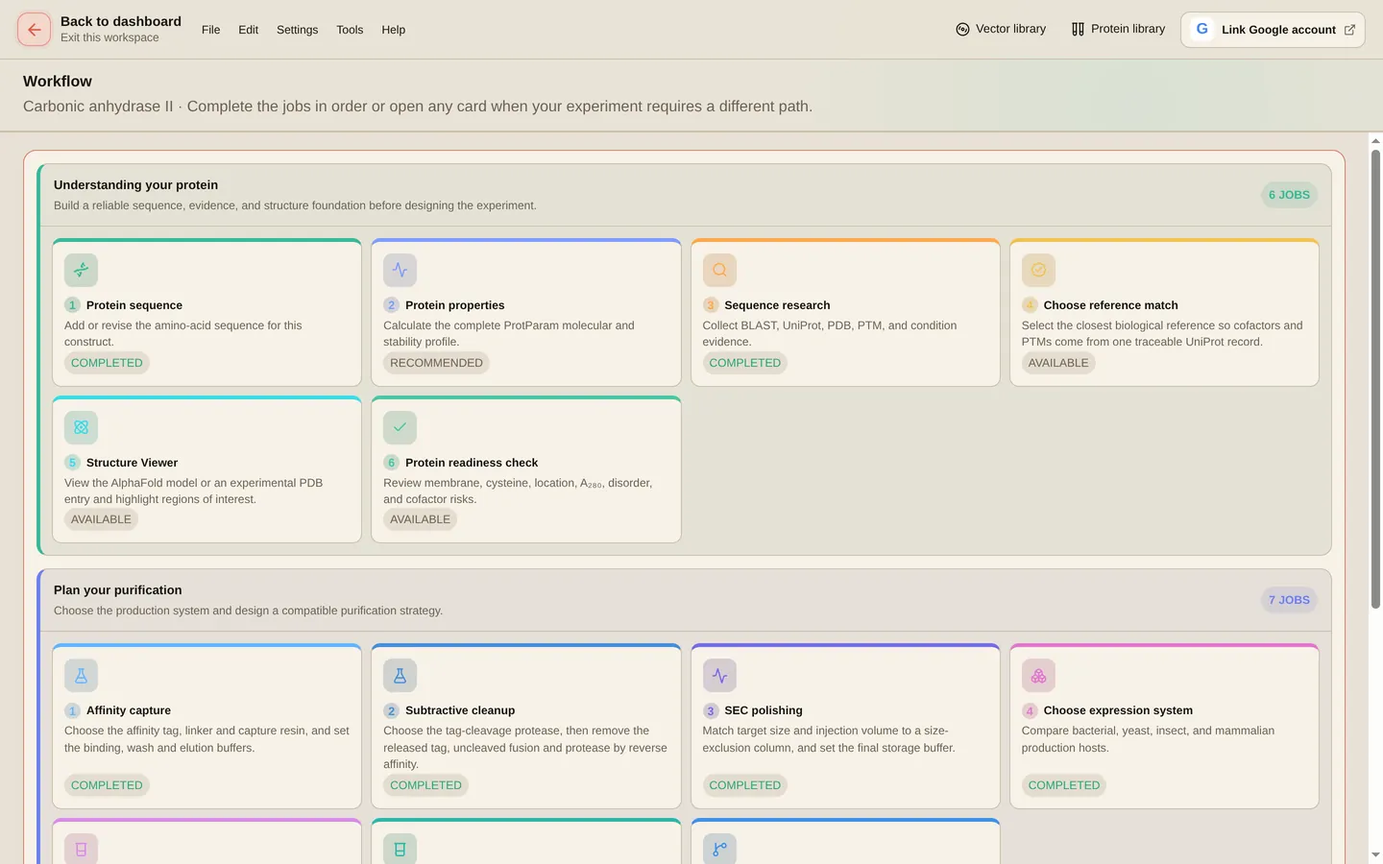
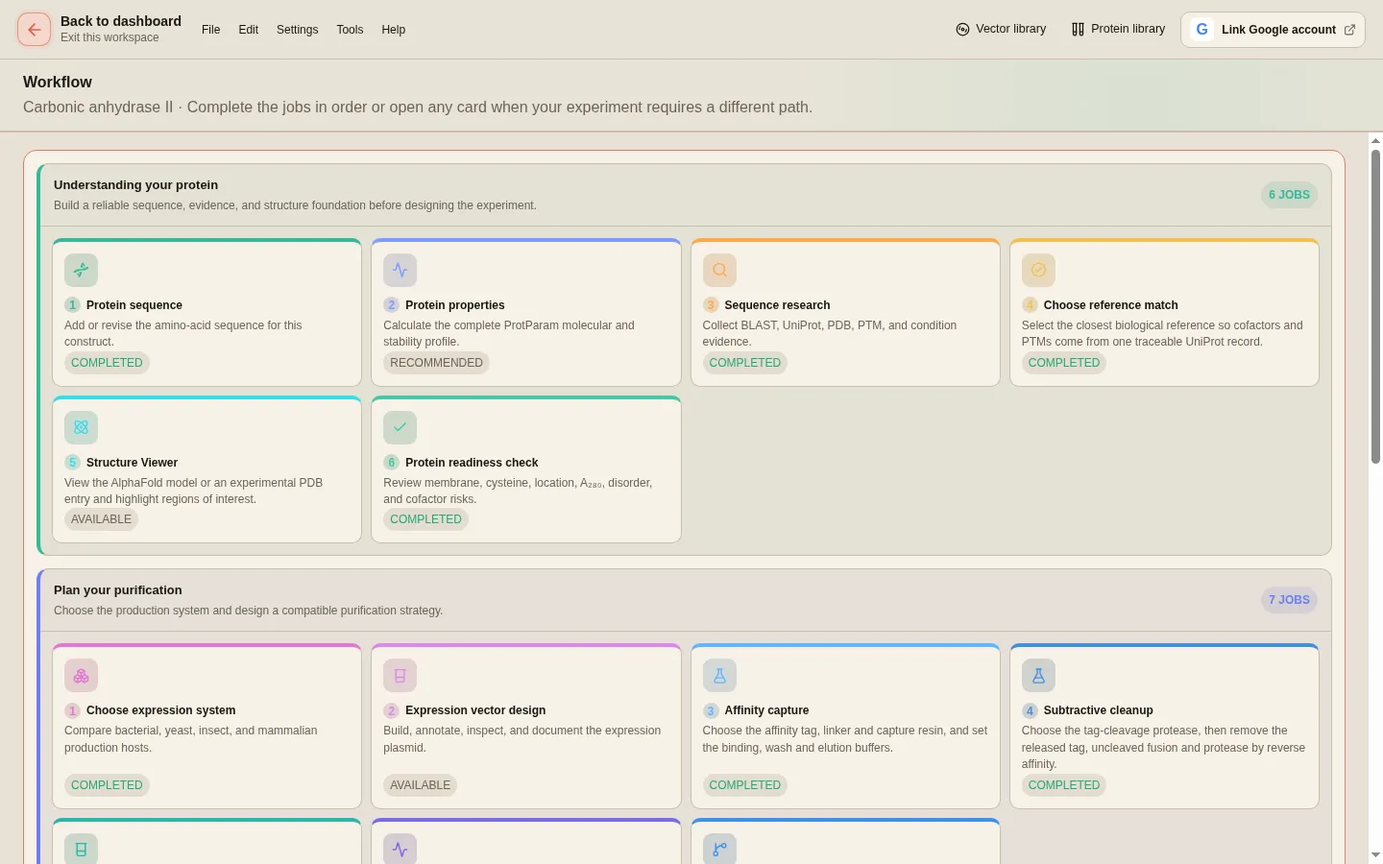
fix(workflow): plan the purification in bench order
Plan your purification now runs expression system, vector design, affinity
capture, subtractive cleanup (tag cleavage), cell lysis, SEC polishing,
compile. Each job comes after the ones it depends on: affinity's construct
designer needs the vector, lysis needs the host and the capture buffer, and
the protease shown in affinity is chosen in cleanup. Previous/Next job tabs
follow the same order.

The manual's Planning section, the workflow table and its screenshot match
the new order; buffer-listing hints read in the same order.

diff --git a/protein-labs-web/components/protein-labs/purification-stage-job.tsx b/protein-labs-web/components/protein-labs/purification-stage-job.tsx
@@ -96,7 +96,7 @@ function lysisChecks(bundle:ProteinBundle,vectors:JsonObject[],method:LysisMetho
   // A cell-free reaction has no cells, so no lysis method can "match" it;
   // saying nothing would leave the earlier branches claiming a bacterial fit.
   if(cellFree)checks.push(warn("Cell-free expression has no cells to lyse","The saved expression system is cell-free, so this stage does not apply. Record the reaction clean-up — centrifugation or filtration of the reaction mix — instead of a lysis method."));else if(!system)checks.push(warn("Expression host is not yet selected","Choose an expression system so cell-wall and membrane requirements can be checked."));else if(method.systems.includes(system))checks.push(ok("Method matches the expression host",`${method.name} is a normal option for ${system} material.`));else checks.push(err("Lysis method does not match the host",`${method.name} is not a normal primary method for ${system}; choose a host-compatible method or document a validated exception.`));const membrane=isMembrane(bundle);const text=bufferText(buffer);if(membrane&&contains(text,["ddm","detergent","triton","digitonin","chaps"]))checks.push(ok("Membrane extraction is represented","The protein is marked as membrane-associated and the selected buffer includes detergent."));else if(membrane)checks.push(err("Membrane protein lacks a solubilizing detergent","Select a membrane-protein buffer and validate detergent identity, concentration, and lipid requirements."));else checks.push(ok("Soluble-protein buffer context","No confirmed membrane-protein requirement conflicts with this buffer."));const affinity=config(bundle,"purification-affinity"),hisPlanned=isHis(String(affinity.tag??""))||hasHis(vectorText(vectors));if(hisPlanned&&contains(text.replace(/edta-free/g,""),["edta","egta","citrate"]))checks.push(err("Chelator conflicts with planned or annotated IMAC","The selected lysis buffer can strip or compete for immobilized nickel/cobalt. Remove the chelator or exchange buffer before capture."));else if(hisPlanned)checks.push(ok("Lysis buffer is chelator-free for IMAC","A His tag is selected or annotated, and no common metal chelator was found in this starting formula."));const pI=Number(bundle.protparam?.result.theoreticalPI);if(!Number.isFinite(buffer.pH))checks.push(warn("Lysis buffer pH is not set","Enter the pH in the buffer composer so it can be checked against the predicted pI."));else if(Number.isFinite(pI)&&Math.abs(buffer.pH-pI)<.5)checks.push(warn("Buffer pH is close to the predicted pI",`pH ${buffer.pH} is within 0.5 unit of pI ${pI.toFixed(2)}, which can increase precipitation risk.`));else if(Number.isFinite(pI))checks.push(ok("Buffer pH is separated from predicted pI",`pH ${buffer.pH} is not within 0.5 unit of pI ${pI.toFixed(2)}.`));return checks}
-function cleanupChecks(bundle:ProteinBundle,vectors:JsonObject[],column:AffinityColumn,buffer:BufferStep,cleavage:{proteaseId:string;proteaseName:string}):Compatibility[]{const checks:Compatibility[]=[];const capture=config(bundle,"purification-affinity"),vector=vectorText(vectors);if(!capture.columnId)checks.push(err("Initial affinity capture is missing","Select the original affinity tag and capture medium first."));else if(String(capture.columnId)===column.id)checks.push(ok("Cleanup chemistry matches capture chemistry",`${column.shortName} will recapture the removed tag and uncleaved fusion using the established handle.`));else checks.push(warn("Cleanup chemistry differs from initial capture",`Initial capture used ${capture.shortName??capture.columnName}; confirm that ${column.tag} is present on the protease or contaminant intended for removal.`));if(!cleavage.proteaseId)checks.push(err("Tag cleavage has not been chosen","Choose a cleavage protease above, or keep the tag."));else if(cleavage.proteaseId==="retain")checks.push(warn("The affinity tag is being retained","Reverse affinity may be unnecessary unless it removes a separately tagged contaminant or protease."));else checks.push(ok("Cleavage strategy is available",`${cleavage.proteaseName||cleavage.proteaseId} is planned before cleanup.`));if(isHis(column.tag)){if(!vectors.length)checks.push(warn("No expression vector yet","The vector is designed later, in Expression vector design. Compile workflow checks the His tag against it."));else if(!hasHis(vector))checks.push(err("No His tag is annotated in the saved vector","Ni-NTA cleanup requires a His-tagged species. Annotate the construct/protease handle or choose the correct chemistry."));else checks.push(ok("A His tag is present in vector annotations","The saved vector includes a polyhistidine-related annotation."));if(!vectors.length){/* checked once the vector exists */}else if(!hasNTermHis(vector))checks.push(warn("N-terminal His tag is not confirmed","Protein Lab found His-tag evidence but no explicit N-terminal His-tag annotation. Confirm tag orientation and whether cleavage leaves the intended untagged target in flow-through."));else checks.push(ok("N-terminal His tag is documented","The saved annotation supports the planned N-terminal tag removal and reverse-IMAC logic."));}checks.push(...cleanupBufferChecks(column.tag,buffer));return checks}
+function cleanupChecks(bundle:ProteinBundle,vectors:JsonObject[],column:AffinityColumn,buffer:BufferStep,cleavage:{proteaseId:string;proteaseName:string}):Compatibility[]{const checks:Compatibility[]=[];const capture=config(bundle,"purification-affinity"),vector=vectorText(vectors);if(!capture.columnId)checks.push(err("Initial affinity capture is missing","Select the original affinity tag and capture medium first."));else if(String(capture.columnId)===column.id)checks.push(ok("Cleanup chemistry matches capture chemistry",`${column.shortName} will recapture the removed tag and uncleaved fusion using the established handle.`));else checks.push(warn("Cleanup chemistry differs from initial capture",`Initial capture used ${capture.shortName??capture.columnName}; confirm that ${column.tag} is present on the protease or contaminant intended for removal.`));if(!cleavage.proteaseId)checks.push(err("Tag cleavage has not been chosen","Choose a cleavage protease above, or keep the tag."));else if(cleavage.proteaseId==="retain")checks.push(warn("The affinity tag is being retained","Reverse affinity may be unnecessary unless it removes a separately tagged contaminant or protease."));else checks.push(ok("Cleavage strategy is available",`${cleavage.proteaseName||cleavage.proteaseId} is planned before cleanup.`));if(isHis(column.tag)){if(!vectors.length)checks.push(warn("No expression vector yet","Design the vector in Expression vector design. Compile workflow checks the His tag against it."));else if(!hasHis(vector))checks.push(err("No His tag is annotated in the saved vector","Ni-NTA cleanup requires a His-tagged species. Annotate the construct/protease handle or choose the correct chemistry."));else checks.push(ok("A His tag is present in vector annotations","The saved vector includes a polyhistidine-related annotation."));if(!vectors.length){/* checked once the vector exists */}else if(!hasNTermHis(vector))checks.push(warn("N-terminal His tag is not confirmed","Protein Lab found His-tag evidence but no explicit N-terminal His-tag annotation. Confirm tag orientation and whether cleavage leaves the intended untagged target in flow-through."));else checks.push(ok("N-terminal His tag is documented","The saved annotation supports the planned N-terminal tag removal and reverse-IMAC logic."));}checks.push(...cleanupBufferChecks(column.tag,buffer));return checks}
 function secChecks(bundle:ProteinBundle,column:SecColumn,buffer:BufferStep,mass:number,volume:number):Compatibility[]{const checks:Compatibility[]=[];if(column.minKDa===null||column.maxKDa===null)checks.push(warn("Custom column range requires manual review","Enter and verify the resin fractionation range outside Protein Lab before running."));else if(mass<column.minKDa||mass>column.maxKDa)checks.push(err("Expected mass is outside the column range",`${mass.toFixed(1)} kDa is outside the listed ${column.minKDa}–${column.maxKDa} kDa globular-protein range.`));else{const relative=(mass-column.minKDa)/(column.maxKDa-column.minKDa);checks.push(relative<.08||relative>.92?warn("Expected mass is near a fractionation-range edge",`${mass.toFixed(1)} kDa is within the range but near an edge; a different resin may provide better resolving power.`):ok("Expected mass fits the SEC range",`${mass.toFixed(1)} kDa lies within the listed ${column.minKDa}–${column.maxKDa} kDa range.`))}if(column.sampleMaxMl!==null&&volume>column.sampleMaxMl)checks.push(err("Injection volume exceeds the listed capacity",`${volume} mL exceeds ${column.sampleMaxMl} mL and will reduce resolution or overload the column.`));else if(column.sampleMaxMl!==null)checks.push(ok("Injection volume fits the column",`${volume} mL is within the listed maximum of ${column.sampleMaxMl} mL.`));const pI=Number(bundle.protparam?.result.theoreticalPI);checks.push(...secBufferChecks(column,buffer,{pI:Number.isFinite(pI)?pI:null,membrane:isMembrane(bundle)}));if(column.format.includes("screening"))checks.push(warn("Short column favors screening over final resolution","A 5/150 column is fast and sample-efficient, but a 300 or 600 mm bed is usually stronger for demanding polish."));return checks}
 
 function config(bundle:ProteinBundle,type:string){return bundle.projectJobs.find(job=>job.appType===type)?.config??{}}

diff --git a/protein-labs-web/components/protein-labs/purification-planner-job.tsx b/protein-labs-web/components/protein-labs/purification-planner-job.tsx
@@ -83,7 +83,7 @@ function compileChecks(bundle:ProteinBundle,vectors:JsonObject[],lysis:JsonObjec
   appendStageChecks(checks,"SEC polishing",sec,"columnId","Choose a size-exclusion column, sample volume, expected mass, and buffer.");
   if(!tag)checks.push(error("Affinity capture has not been selected","Choose a tag–column pair before compiling the workflow."));else{checks.push(pass("Capture chemistry selected",`${column} is configured for ${affinity.tag}.`));const aliases=tag.includes("his")?["his","polyhistidine","6xhis","6×his"]:tag.includes("strep")?["strep"]:tag.includes("gst")?["gst"]:tag.includes("mbp")?["mbp","maltose binding"]:[tag];if(!vectors.length)checks.push(warning("No saved expression vector to verify","The selected tag could not be checked against construct annotations."));else if(aliases.some(alias=>vectorText.includes(alias)))checks.push(pass("Affinity tag found in construct annotations",`A saved annotation is consistent with ${affinity.tag}.`));else checks.push(error("Selected tag is not annotated in the construct",`Annotate ${affinity.tag} in the vector or choose the tag actually present.`))}
   if(!protease)checks.push(error("Cleavage strategy is missing","Choose a protease or explicitly retain the tag."));else if(protease==="retain")checks.push(pass("Tag retention documented","The workflow will not include a cleavage step."));else if(!site&&!vectorText.includes(protease))checks.push(error("Cleavage site has not been verified",`Confirm the final construct contains the ${cleavage.proteaseName??protease} recognition site.`));else checks.push(pass("Cleavage site recorded",site||"The site appears in a vector annotation."));
-  if(!Object.keys(steps).length){checks.push(error("Buffers are missing","Save Affinity capture, Subtractive cleanup, SEC polishing and Cell lysis; each sets its own buffers."));return checks}const binding=stepText(steps,["lysis","binding","wash"]),elution=stepText(steps,["elution"]),cleavageText=stepText(steps,["cleavage"]),all=stepText(steps,Object.keys(bufferStepLabels));
+  if(!Object.keys(steps).length){checks.push(error("Buffers are missing","Save Affinity capture, Subtractive cleanup, Cell lysis and SEC polishing; each sets its own buffers."));return checks}const binding=stepText(steps,["lysis","binding","wash"]),elution=stepText(steps,["elution"]),cleavageText=stepText(steps,["cleavage"]),all=stepText(steps,Object.keys(bufferStepLabels));
   if((tag.includes("his")||tag.includes("polyhistidine"))&&contains(binding,["edta","egta","citrate"]))checks.push(error("Chelator conflicts with IMAC capture","EDTA, EGTA, or citrate can strip or compete for immobilized metal."));if(tag.includes("his")||tag.includes("polyhistidine")){const strong=["lysis","binding","wash","elution"].flatMap(id=>strongThiolReductants(steps[id]?.components??[]).map(item=>`${item} (${bufferStepLabels[id]})`));if(strong.length)checks.push(warning("Thiol reductant can reduce the IMAC metal",`${strong.join(", ")}: at higher concentration DTT and β-mercaptoethanol can reduce the Ni²⁺ on the resin. TCEP at 1–5 mM is the preferred reductant for IMAC.`))}if((tag.includes("his")||tag.includes("polyhistidine"))&&!contains(elution,["imidazole","low-ph","low ph"]))checks.push(warning("IMAC elution mechanism is unclear","Add imidazole or validated low-pH elution."));if(tag.includes("strep")&&contains(binding,["biotin","desthiobiotin"]))checks.push(error("Biotin is present before Strep capture","Biotin or desthiobiotin competes with Strep-tag binding."));if(tag.includes("strep")&&!contains(elution,["biotin","desthiobiotin"]))checks.push(warning("Strep elution ligand is missing","Add the product-specified ligand."));if(tag.includes("gst")&&!elution.includes("glutathione"))checks.push(warning("GST elution reagent is missing","Reduced glutathione is the usual competitive eluent."));if(tag.includes("mbp")&&!elution.includes("maltose"))checks.push(warning("MBP elution reagent is missing","Maltose is the usual competitive eluent."));if(tag.includes("protein c")&&!contains(binding,["calcium","cacl"]))checks.push(error("Protein C capture requires calcium","Add calcium for HPC4 recognition."));
   if(["thrombin","factor-xa","enterokinase"].includes(protease)&&contains(cleavageText,["pmsf","aebsf","aprotinin","serine protease inhibitor"]))checks.push(error("Protease inhibitor blocks the selected enzyme","Remove serine-protease inhibitors from the reaction."));if(["tev","hrv-3c","ulp1","tvmv"].includes(protease)&&contains(cleavageText,["e-64","iodoacetamide","cysteine protease inhibitor"]))checks.push(error("Cysteine-protease inhibitor conflicts with cleavage","Remove cysteine-protease inhibitors."));if(protease==="tev"&&!contains(cleavageText,["dtt","tcep","mercaptoethanol"]))checks.push(warning("TEV reducing environment is not documented","A reducing agent keeps TEV active; 1–5 mM TCEP also suits the reverse IMAC that follows."));
   const pI=Number(bundle.protparam?.result.theoreticalPI);if(Number.isFinite(pI)){const near=Object.entries(steps).filter(([,step])=>step.pH&&Math.abs(Number(step.pH)-pI)<.5).map(([id,step])=>`${bufferStepLabels[id]} (pH ${step.pH})`);checks.push(near.length?warning(`Buffer pH is close to predicted pI ${pI.toFixed(2)}`,`${near.join(", ")} may increase aggregation risk.`):pass("Buffer pH is separated from predicted pI",`No planned step is within 0.5 pH unit of pI ${pI.toFixed(2)}.`))}const cysteines=[...bundle.protein.sequence].filter(aa=>aa==="C").length;if(cysteines>=4&&contains(all,["dtt","tcep","mercaptoethanol"]))checks.push(warning("Reducing agent with a cysteine-rich protein",`The sequence has ${cysteines} cysteines. Confirm whether disulfides must be preserved.`));if(!checks.some(item=>item.level==="error"))checks.push(pass("No common blocking incompatibility detected","Proceed to small-scale validation and exact product instructions."));return checks}

diff --git a/protein-labs-web/lib/workflow.ts b/protein-labs-web/lib/workflow.ts
@@ -35,16 +35,17 @@ export const workflowJobs: WorkflowJobDefinition[] = [
   { id: "reference-match", appType: "reference-match", label: "Choose reference match", description: "Select the closest biological reference so cofactors and PTMs come from one traceable UniProt record.", stage: "understand", color: "#f2c14e", requiredKey: "selectedAccession" },
   { id: "structure", appType: "alphafold", label: "Structure Viewer", description: "View the AlphaFold model or an experimental PDB entry and highlight regions of interest.", stage: "understand", color: "#37dce8" },
   { id: "readiness", appType: "protein-readiness", label: "Protein readiness check", description: "Review membrane, cysteine, location, A₂₈₀, disorder, and cofactor risks.", stage: "understand", color: "#45c6a7", requiredKey: "reviewStatus" },
-  // Purification is designed from the protein outwards: capture, cleanup and
-  // polishing first, then the host, vector and lysis that have to feed them.
-  // Tag cleavage is chosen in subtractive cleanup and each job sets its own
-  // buffers, so neither has a step of its own.
-  { id: "purification-affinity", appType: "purification-affinity", label: "Affinity capture", description: "Choose the affinity tag, linker and capture resin, and set the binding, wash and elution buffers.", stage: "plan", color: "#63b4ff", requiredKey: "columnId" },
-  { id: "purification-subtractive", appType: "purification-subtractive", label: "Subtractive cleanup", description: "Choose the tag-cleavage protease, then remove the released tag, uncleaved fusion and protease by reverse affinity.", stage: "plan", color: "#468fda", requiredKey: "columnId" },
-  { id: "purification-sec", appType: "purification-sec", label: "SEC polishing", description: "Match target size and injection volume to a size-exclusion column, and set the final storage buffer.", stage: "plan", color: "#756be8", requiredKey: "columnId" },
+  // Planning follows the bench: host, then the vector built for it, then
+  // capture, cleavage and cleanup, lysis and polishing, then the compiled plan.
+  // Each job can check against what the earlier ones saved. Tag cleavage is
+  // chosen in subtractive cleanup and each job sets its own buffers, so
+  // neither has a step of its own.
   { id: "expression-system", appType: "expression-system", label: "Choose expression system", description: "Compare bacterial, yeast, insect, and mammalian production hosts.", stage: "plan", color: "#e178d0", requiredKey: "strainId" },
   { id: "expression-vector", appType: "expression-planning", label: "Expression vector design", description: "Build, annotate, inspect, and document the expression plasmid.", stage: "plan", color: "#d98ae9" },
+  { id: "purification-affinity", appType: "purification-affinity", label: "Affinity capture", description: "Choose the affinity tag, linker and capture resin, and set the binding, wash and elution buffers.", stage: "plan", color: "#63b4ff", requiredKey: "columnId" },
+  { id: "purification-subtractive", appType: "purification-subtractive", label: "Subtractive cleanup", description: "Choose the tag-cleavage protease, then remove the released tag, uncleaved fusion and protease by reverse affinity.", stage: "plan", color: "#468fda", requiredKey: "columnId" },
   { id: "purification-lysis", appType: "purification-lysis", label: "Cell lysis", description: "Choose a host-compatible disruption method and lysis buffer, and review incompatibilities.", stage: "plan", color: "#2bb7a9", requiredKey: "methodId" },
+  { id: "purification-sec", appType: "purification-sec", label: "SEC polishing", description: "Match target size and injection volume to a size-exclusion column, and set the final storage buffer.", stage: "plan", color: "#756be8", requiredKey: "columnId" },
   { id: "purification-workflow", appType: "purification-workflow", label: "Compile workflow", description: "Cross-check the complete design and generate a bench plan.", stage: "plan", color: "#3d91e8", requiredKey: "reviewStatus" },
   { id: "transformation-expression", appType: "transformation-expression", label: "Transformation and Expression", description: "Record the starting material, host-specific medium, culture conditions, and expression notes.", stage: "purify", color: "#ef8f47", requiredKey: "mediaId" },
   { id: "chromatogram", appType: "chromatogram-studio", label: "Chromatogram Studio", description: "Analyze purification traces, SEC standards, peaks, and figures.", stage: "analysis", color: "#b47bf3" },

diff --git a/protein-labs-web/components/protein-labs/compile-timeline.tsx b/protein-labs-web/components/protein-labs/compile-timeline.tsx
@@ -63,7 +63,7 @@ export function CompileReview({ proteinName, checks, workflow, nothingSaved, bus
       <span className="compile-metrics">{levels.map(({ level, plural, Icon }) => <span className={level} key={level}><Icon aria-hidden="true"/><b>{count(level)}</b><small>{plural}</small></span>)}</span>
       <span className="compile-actions"><StatusChip tone={blocking ? "error" : "pass"} label={blocking ? "Draft" : "Ready for review"}/><Button variant="outline" onClick={onCopy}><Clipboard/> Copy report</Button><Button disabled={busy} onClick={onSave}>{busy ? <LoaderCircle className="spin"/> : <Check/>}{blocking ? "Save draft" : "Save workflow"}</Button></span>
     </header>
-    {nothingSaved && <div className="review-empty"><ClipboardList aria-hidden="true"/><span><strong>Nothing saved to compile yet</strong><small>Save Affinity capture, Subtractive cleanup, SEC polishing and Cell lysis first. Until then the steps below are generic placeholders.</small></span></div>}
+    {nothingSaved && <div className="review-empty"><ClipboardList aria-hidden="true"/><span><strong>Nothing saved to compile yet</strong><small>Save Affinity capture, Subtractive cleanup, Cell lysis and SEC polishing first. Until then the steps below are generic placeholders.</small></span></div>}
     <nav className="compile-rail" aria-label="Workflow overview">
       {timeline.steps.map((step, index) => {
         const Icon = kindIcons[step.kind];

diff --git a/protein-labs-web/lib/job-navigation.test.ts b/protein-labs-web/lib/job-navigation.test.ts
@@ -39,7 +39,14 @@ describe("jobNeighbours", () => {
 
   it("follows the workflow order across stages", () => {
     assert.deepEqual(Object.values(jobNeighbours("research")).map((value) => value?.id), ["properties", "reference-match"]);
-    assert.deepEqual(Object.values(jobNeighbours("purification-workflow")).map((value) => value?.id), ["purification-lysis", "transformation-expression"]);
+    assert.deepEqual(Object.values(jobNeighbours("purification-workflow")).map((value) => value?.id), ["purification-sec", "transformation-expression"]);
+  });
+
+  it("plans the purification in bench order", () => {
+    assert.deepEqual(workflowJobs.filter((job) => job.stage === "plan").map((job) => job.id), [
+      "expression-system", "expression-vector", "purification-affinity", "purification-subtractive", "purification-lysis", "purification-sec", "purification-workflow",
+    ]);
+    assert.deepEqual(Object.values(jobNeighbours("expression-system")).map((value) => value?.id), ["readiness", "expression-vector"]);
   });
 
   it("resolves folded jobs to the job that now holds them", () => {

diff --git a/protein-labs-web/docs/user-manual.md b/protein-labs-web/docs/user-manual.md
@@ -138,7 +138,7 @@ The workflow page has two sections of numbered jobs, then the **Purify your prot
 | Section | Jobs |
 | --- | --- |
 | **Understanding your protein** | Protein sequence, Protein properties, Sequence research, Choose reference match, Structure Viewer, Protein readiness check |
-| **Plan your purification** | Affinity capture, Subtractive cleanup, SEC polishing, Choose expression system, Expression vector design, Cell lysis, Compile workflow |
+| **Plan your purification** | Choose expression system, Expression vector design, Affinity capture, Subtractive cleanup, Cell lysis, SEC polishing, Compile workflow |
 | **Purify your protein** (from the roadmap) | Transformation and Expression, Chromatogram Studio, Gel densitometry |
 | **Crystallize your protein** | Crystallize your protein |
 | **Study it by NMR** | Predict the ¹H–¹⁵N HSQC spectrum |
@@ -148,7 +148,7 @@ The workflow page has two sections of numbered jobs, then the **Purify your prot
 
 The bench jobs in **Purify your protein** open from the steps of the [purification roadmap](#purification-roadmap), or with **Next job** after **Compile workflow**.
 
-You plan the purification from the protein outwards. First choose the capture, cleanup and polishing steps. Then choose the host, the vector and the lysis that feed them.
+You plan the purification in bench order. Choose the host first, then the vector that carries the construct. Then choose the affinity capture, the tag cleavage and cleanup, the lysis and the SEC polishing. Each job can use what the jobs before it saved: the vector is designed for the host, the affinity tag is checked against the vector, and the lysis buffer starts from the capture column's binding buffer.
 
 ### Work in a job
 
@@ -432,9 +432,22 @@ The **Evidence ledger** shows the evidence for each answer. Click **Send this se
 
 ## Planning the purification
 
-The **Plan your purification** jobs choose the columns, buffers, host, vector and lysis. Most jobs show option cards. Click a card to read its details, then click **Use this option** or **Use this choice**. Each job checks compatibility while you change your choices, and shows the result in a **Compatibility check**.
+The **Plan your purification** jobs choose the host, vector, columns, lysis and buffers, in the order you use them at the bench. Most jobs show option cards. Click a card to read its details, then click **Use this option** or **Use this choice**. Each job checks compatibility while you change your choices, and shows the result in a **Compatibility check**.
 
 > **Note:** If a finding is blocking, the job saves a draft. The job stays in progress until you solve the blocking finding.
+
+### Choose expression system
+
+1. Open **Choose expression system**.
+2. In **Host systems**, compare the five families: *E. coli*, yeast, insect, mammalian and cell-free.
+3. Use **Side-by-side comparison** to compare yield, time, cost, PTMs, disulfide bonds, scale, uses and limits. Click **Browse strains** to open a family.
+4. In the strain list, search by strain, genotype, marker or application. Tick **Compare** on two to four strains to put them in the table.
+5. Click **Choose** on a strain. Read **Evidence for this strain** and the compatible vector families.
+6. Click **Save cell line**.
+
+### Expression vector design
+
+Click **Load backbone** to load a vector from the library, or **Import GenBank / FASTA / .dna** to import a file. Annotate the vector with **Auto annotate**, **Annotate selection** or **Detect and annotate ORFs**. Click **Save** or press <kbd>Ctrl+S</kbd>. Export the vector as **GenBank**, **SnapGene .dna** or **FASTA**. Press <kbd>?</kbd> in the job to see its keyboard shortcuts.
 
 ### Affinity capture
 
@@ -475,43 +488,6 @@ After the update, **PLAN UPDATED FROM CONSTRUCT** tells you what changed and fro
 4. Under **Buffer starting point**, click a preset and click **Load into composer**. Edit the **Cleavage buffer** in the composer.
 5. Read the **Compatibility check**, then click **Save job**.
 
-### SEC polishing
-
-1. Open **SEC polishing**.
-2. Enter the **Expected native mass / complex size (kDa)** and the **Injection volume (mL)**. The mass starts at the mass of the cleaved construct.
-3. Choose an SEC column. Each card shows the fractionation range and the total volume. Chromatogram Studio uses the same columns.
-4. Load a buffer preset into the composer and edit the **Storage buffer**.
-5. Read the **Compatibility check**. It compares the mass, the injection volume and the buffer pH with the column, and the buffer pH with the predicted pI.
-6. Click **Save job**.
-
-### Buffer composer
-
-Affinity capture, Subtractive cleanup, SEC polishing and Cell lysis use the same buffer composer.
-
-1. Set the **pH** and the **Purpose** of the buffer.
-2. Click **Add component**. Type in the component box to search the component library by name, alias or purpose.
-3. Select a component. The library fills in a typical concentration and unit. If the name is not in the library, Protein Lab keeps it as a **Custom** component.
-4. Enter the **Concentration**, then choose the **Unit** and the **Purpose**. Choose **Custom…** to describe your own purpose.
-5. Read the panel for the selected component: other names, typical range, uses, cautions and references.
-6. To remove a component, click the bin button on its row.
-
-The composer marks a concentration that is outside the typical range. It also shows cautions for known problems. For example, EDTA removes Ni²⁺ and Co²⁺ from IMAC resins.
-
-> **Note:** Use 1–5 mM TCEP as the reducing agent with Ni-NTA and other IMAC resins. TCEP does not reduce the nickel or remove it from the resin. DTT or β-mercaptoethanol at higher concentration can reduce Ni²⁺, so the IMAC presets, the lysis suggestion and the reverse-IMAC buffer use TCEP. Compile workflow warns about DTT above 1 mM or β-mercaptoethanol above 20 mM in an IMAC buffer.
-
-### Choose expression system
-
-1. Open **Choose expression system**.
-2. In **Host systems**, compare the five families: *E. coli*, yeast, insect, mammalian and cell-free.
-3. Use **Side-by-side comparison** to compare yield, time, cost, PTMs, disulfide bonds, scale, uses and limits. Click **Browse strains** to open a family.
-4. In the strain list, search by strain, genotype, marker or application. Tick **Compare** on two to four strains to put them in the table.
-5. Click **Choose** on a strain. Read **Evidence for this strain** and the compatible vector families.
-6. Click **Save cell line**.
-
-### Expression vector design
-
-Click **Load backbone** to load a vector from the library, or **Import GenBank / FASTA / .dna** to import a file. Annotate the vector with **Auto annotate**, **Annotate selection** or **Detect and annotate ORFs**. Click **Save** or press <kbd>Ctrl+S</kbd>. Export the vector as **GenBank**, **SnapGene .dna** or **FASTA**. Press <kbd>?</kbd> in the job to see its keyboard shortcuts.
-
 ### Cell lysis
 
 1. Open **Cell lysis**. Each method card shows if it suits the saved host.
@@ -529,6 +505,30 @@ Click **Load backbone** to load a vector from the library, or **Import GenBank /
 
 > **Note:** A cell-free host has no cells to lyse, so Protein Lab does not suggest a lysis enzyme. Clarify the reaction mix by centrifugation before you load it.
 
+### SEC polishing
+
+1. Open **SEC polishing**.
+2. Enter the **Expected native mass / complex size (kDa)** and the **Injection volume (mL)**. The mass starts at the mass of the cleaved construct.
+3. Choose an SEC column. Each card shows the fractionation range and the total volume. Chromatogram Studio uses the same columns.
+4. Load a buffer preset into the composer and edit the **Storage buffer**.
+5. Read the **Compatibility check**. It compares the mass, the injection volume and the buffer pH with the column, and the buffer pH with the predicted pI.
+6. Click **Save job**.
+
+### Buffer composer
+
+Affinity capture, Subtractive cleanup, Cell lysis and SEC polishing use the same buffer composer.
+
+1. Set the **pH** and the **Purpose** of the buffer.
+2. Click **Add component**. Type in the component box to search the component library by name, alias or purpose.
+3. Select a component. The library fills in a typical concentration and unit. If the name is not in the library, Protein Lab keeps it as a **Custom** component.
+4. Enter the **Concentration**, then choose the **Unit** and the **Purpose**. Choose **Custom…** to describe your own purpose.
+5. Read the panel for the selected component: other names, typical range, uses, cautions and references.
+6. To remove a component, click the bin button on its row.
+
+The composer marks a concentration that is outside the typical range. It also shows cautions for known problems. For example, EDTA removes Ni²⁺ and Co²⁺ from IMAC resins.
+
+> **Note:** Use 1–5 mM TCEP as the reducing agent with Ni-NTA and other IMAC resins. TCEP does not reduce the nickel or remove it from the resin. DTT or β-mercaptoethanol at higher concentration can reduce Ni²⁺, so the IMAC presets, the lysis suggestion and the reverse-IMAC buffer use TCEP. Compile workflow warns about DTT above 1 mM or β-mercaptoethanol above 20 mM in an IMAC buffer.
+
 ### Compile workflow
 
 **Compile workflow** turns your saved planning choices into a timeline of bench steps, from expression and harvest to QC and storage. It checks each hand-off from one step to the next.
@@ -544,7 +544,7 @@ Click **Load backbone** to load a vector from the library, or **Import GenBank /
 6. Click **Copy report** to copy the workflow to the clipboard.
 7. Click **Save workflow**. If there are blocking findings, the button is **Save draft**. Solve the blocking findings, then save again.
 
-> **Tip:** If nothing is saved yet, the timeline shows **Nothing saved to compile yet** and generic placeholder steps. Save **Affinity capture**, **Subtractive cleanup**, **SEC polishing** and **Cell lysis** first.
+> **Tip:** If nothing is saved yet, the timeline shows **Nothing saved to compile yet** and generic placeholder steps. Save **Affinity capture**, **Subtractive cleanup**, **Cell lysis** and **SEC polishing** first.
 
 ## Transformation and Expression
 
